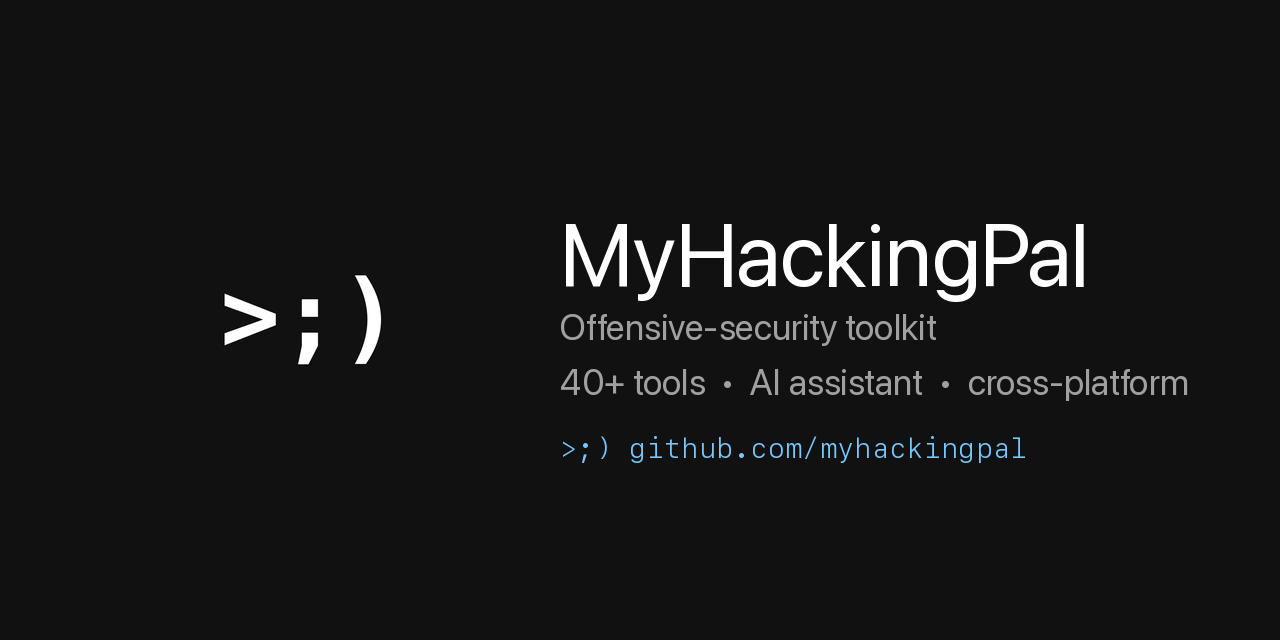
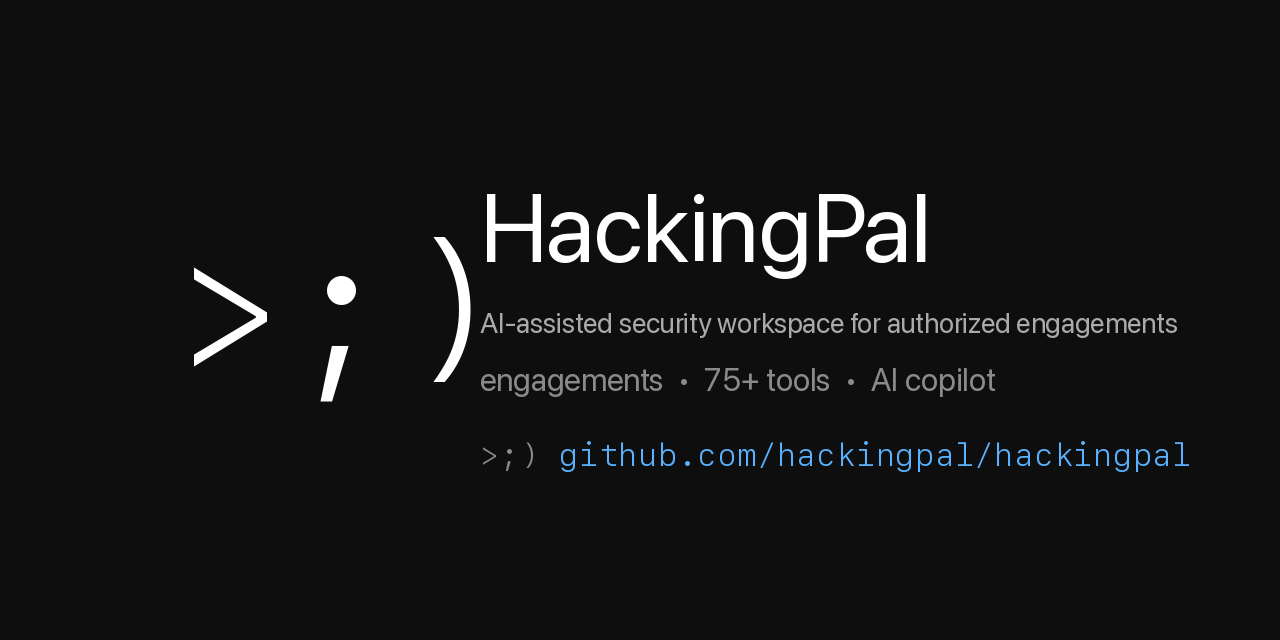
chore(brand): social-preview generator + regenerated assets
generate_social_preview.py renders the GitHub social-preview card;
commit the regenerated social-preview.png and the classic variant it
produces. Unrelated to the labs/attach feature.

diff --git a/docs/brand/generate_social_preview.py b/docs/brand/generate_social_preview.py
@@ -1,0 +1,113 @@
+"""Generate the GitHub social-preview PNG for HackingPal.
+
+Renders two variants into docs/brand/:
+  - social-preview.png         — primary, matches the current README tagline
+  - social-preview-classic.png — original copy with name+URL corrected
+
+Run from anywhere:
+    python3 docs/brand/generate_social_preview.py
+"""
+from pathlib import Path
+from PIL import Image, ImageDraw, ImageFont
+
+OUT_DIR = Path(__file__).resolve().parent
+W, H = 1280, 640
+BG = (14, 14, 14)
+INK = (255, 255, 255)
+INK_MUTED = (170, 170, 170)
+INK_DIM = (138, 138, 138)
+ACCENT = (90, 177, 255)
+
+SF = "/System/Library/Fonts/SFNS.ttf"
+SF_MONO = "/System/Library/Fonts/SFNSMono.ttf"
+
+MARK_X = 175
+TEXT_X = 480
+RIGHT_MARGIN = 60
+
+
+def font(path: str, size: int) -> ImageFont.FreeTypeFont:
+    return ImageFont.truetype(path, size)
+
+
+def text_w(d: ImageDraw.ImageDraw, s: str, f: ImageFont.FreeTypeFont) -> int:
+    b = d.textbbox((0, 0), s, font=f)
+    return b[2] - b[0]
+
+
+def fit_size(d: ImageDraw.ImageDraw, s: str, path: str, max_w: int, start: int, floor: int = 18) -> ImageFont.FreeTypeFont:
+    size = start
+    while size > floor:
+        f = font(path, size)
+        if text_w(d, s, f) <= max_w:
+            return f
+        size -= 2
+    return font(path, floor)
+
+
+def render(out_path: Path, title: str, subtitle: str, tagline: str, url: str) -> None:
+    img = Image.new("RGB", (W, H), BG)
+    d = ImageDraw.Draw(img)
+
+    f_mark = font(SF_MONO, 180)
+    f_title = font(SF, 96)
+
+    max_text_w = W - TEXT_X - RIGHT_MARGIN
+    f_sub = fit_size(d, subtitle, SF, max_text_w, start=36, floor=24)
+    f_tag = fit_size(d, tagline, SF, max_text_w, start=32, floor=22)
+
+    url_prefix = ">;) "
+    f_url = fit_size(d, url_prefix + url, SF_MONO, max_text_w, start=32, floor=20)
+
+    mark = ">;)"
+    mbbox = d.textbbox((0, 0), mark, font=f_mark)
+    mark_h = mbbox[3] - mbbox[1]
+    mark_y = (H - mark_h) // 2 - mbbox[1]
+    d.text((MARK_X, mark_y), mark, font=f_mark, fill=INK)
+
+    title_h = d.textbbox((0, 0), title, font=f_title)[3]
+    sub_h = d.textbbox((0, 0), subtitle, font=f_sub)[3]
+    tag_h = d.textbbox((0, 0), tagline, font=f_tag)[3]
+    url_h = d.textbbox((0, 0), url_prefix, font=f_url)[3]
+
+    gap_title_sub = 26
+    gap_sub_tag = 22
+    gap_tag_url = 38
+
+    block_h = title_h + gap_title_sub + sub_h + gap_sub_tag + tag_h + gap_tag_url + url_h
+    y = (H - block_h) // 2
+
+    d.text((TEXT_X, y), title, font=f_title, fill=INK)
+    y += title_h + gap_title_sub
+    d.text((TEXT_X, y), subtitle, font=f_sub, fill=INK_MUTED)
+    y += sub_h + gap_sub_tag
+    d.text((TEXT_X, y), tagline, font=f_tag, fill=INK_DIM)
+    y += tag_h + gap_tag_url
+
+    prefix_w = text_w(d, url_prefix, f_url)
+    d.text((TEXT_X, y), url_prefix, font=f_url, fill=INK_DIM)
+    d.text((TEXT_X + prefix_w, y), url, font=f_url, fill=ACCENT)
+
+    img.save(out_path, "PNG", optimize=True)
+    print(f"wrote {out_path} ({out_path.stat().st_size // 1024} KB)")
+
+
+def main() -> None:
+    render(
+        OUT_DIR / "social-preview.png",
+        title="HackingPal",
+        subtitle="AI-assisted security workspace for authorized engagements",
+        tagline="engagements  •  75+ tools  •  AI copilot",
+        url="github.com/hackingpal/hackingpal",
+    )
+    render(
+        OUT_DIR / "social-preview-classic.png",
+        title="HackingPal",
+        subtitle="Offensive-security toolkit",
+        tagline="40+ tools  •  AI assistant  •  cross-platform",
+        url="github.com/hackingpal/hackingpal",
+    )
+
+
+if __name__ == "__main__":
+    main()
